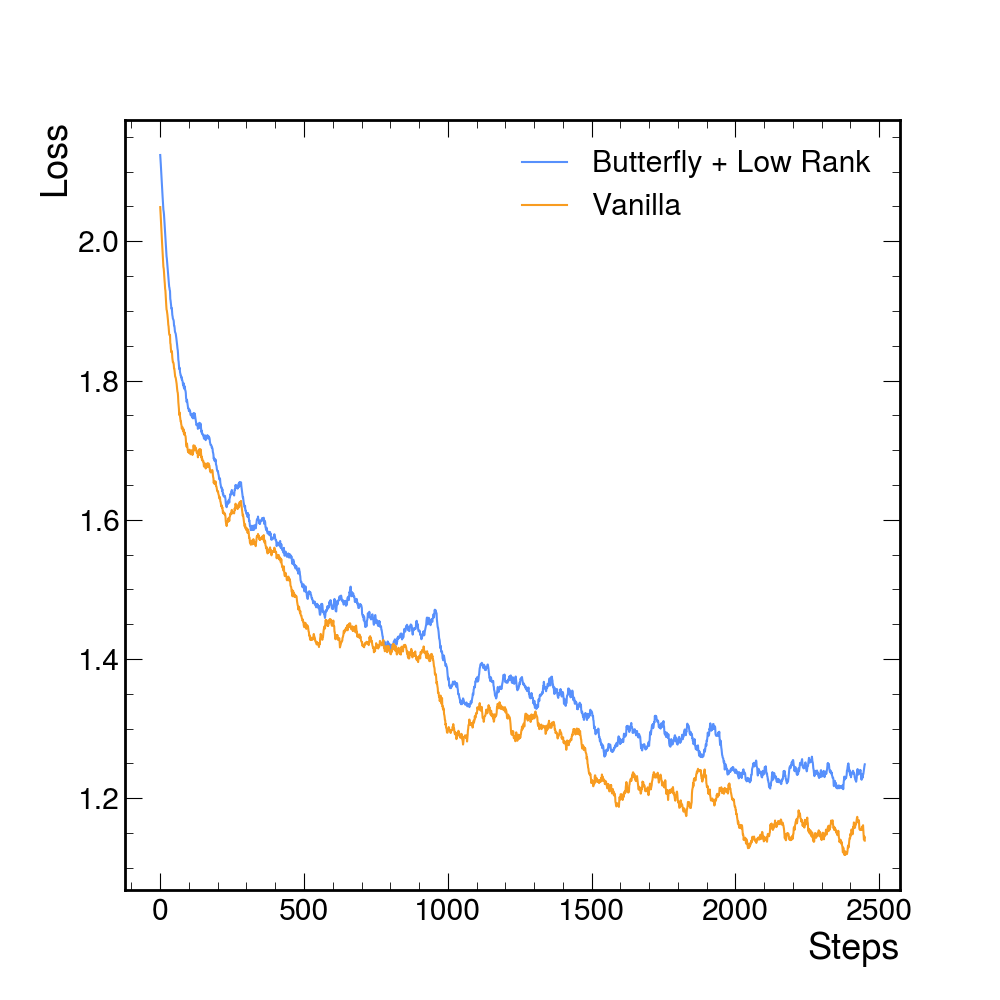
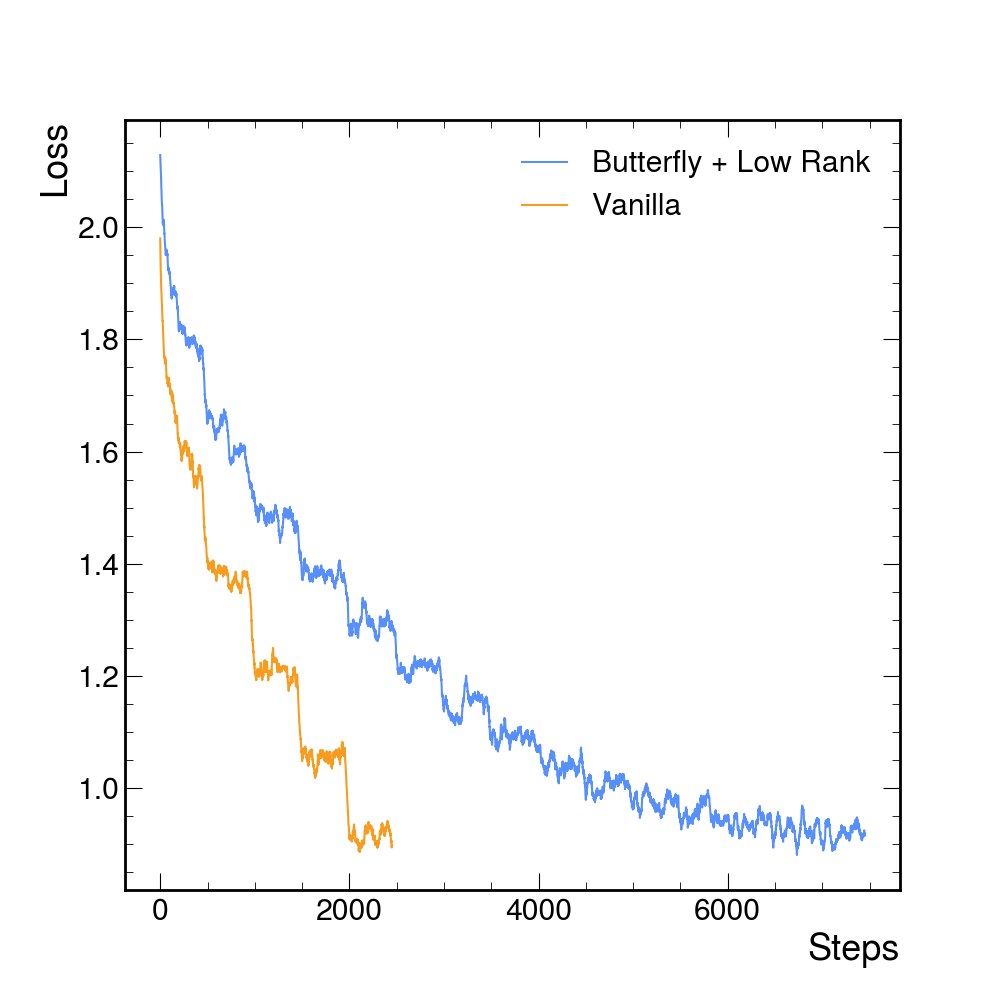
improved performance for monarch with large MLP

diff --git a/src/models.py b/src/models.py
@@ -90,9 +90,12 @@ class CIFAR10_Monarch_MLP(nn.Module):
     def __init__(self, in_features, nblocks=1, out_features=10):
         super().__init__()
         self.fc1 = MonarchLinear(in_features, 3000, nblocks=nblocks, bias=False)
-        self.fc2 = MonarchLinear(3000, 1000,  nblocks=nblocks, bias=False)
-        self.fc3 = MonarchLinear(1000, 100,  nblocks=nblocks, bias=False)
-        self.fc4 = MonarchLinear(100, out_features, nblocks=nblocks, bias=False)
+        self.fc2 = MonarchLinear(3000, 2000,  nblocks=nblocks, bias=False)
+        self.fc3 = MonarchLinear(3000, 1000,  nblocks=nblocks, bias=False)
+        self.fc4 = MonarchLinear(1000, 500,  nblocks=nblocks, bias=False)
+        self.fc5 = MonarchLinear(500, 200,  nblocks=nblocks, bias=False)
+        self.fc6 = MonarchLinear(200, 100,  nblocks=nblocks, bias=False)
+        self.fc7 = MonarchLinear(100, out_features, nblocks=nblocks, bias=False)
         
     def forward(self, x):
         x = torch.flatten(x, 1)
@@ -103,6 +106,12 @@ class CIFAR10_Monarch_MLP(nn.Module):
         x = self.fc3(x)
         x = F.relu(x)
         x = self.fc4(x)
+        x = F.relu(x)
+        x = self.fc5(x)
+        x = F.relu(x)
+        x = self.fc6(x)
+        x = F.relu(x)
+        x = self.fc7(x)
         output = F.log_softmax(x, dim=1)
         return output
 class CIFAR10_Butterfly_MLP(nn.Module):

diff --git a/src/cifar_10.py b/src/cifar_10.py
@@ -124,7 +124,7 @@ def main():
     test_loader = torch.utils.data.DataLoader(dataset_test, **test_kwargs)
     #Initialize the model
     if args.monarch:
-        model = CIFAR10_Monarch_MLP2(3072).to(device)
+        model = CIFAR10_Monarch_MLP(3072).to(device)
         
         # See the savings
         # fc1= model._modules['fc1'].saving.detach().numpy()
